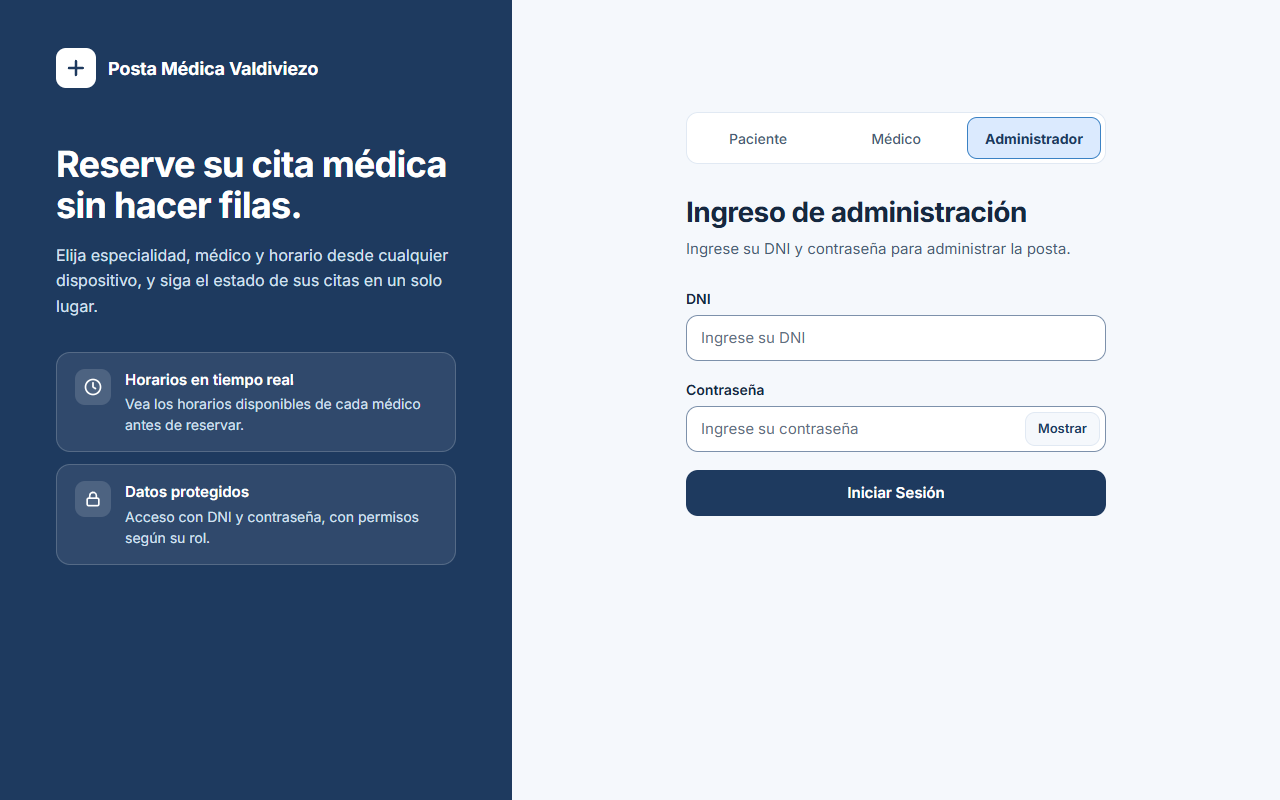
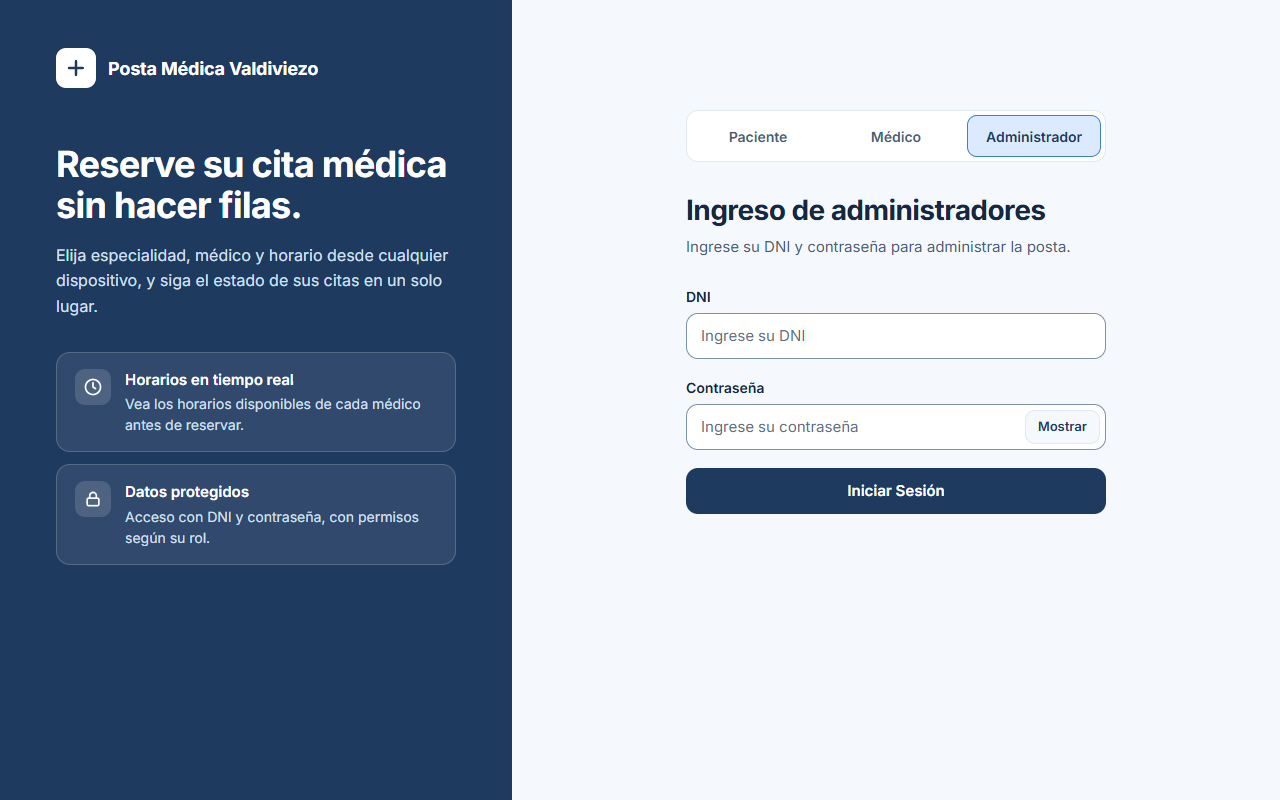
RFC-019: traza corregida (hora de la bitácora, PROTEGIDOS de E04, EC-08, evidencia) y capturas nuevas

diff --git a/docs/ELEMENTOS_CONFIGURACION.md b/docs/ELEMENTOS_CONFIGURACION.md
@@ -21,7 +21,7 @@ Inventario de los elementos de configuración (EC) del sistema "Posta Médica Va
 | EC-05 | Descriptor de construcción del backend | Archivo de construcción (Maven) | Proyecto 1.1.0 (desde la tarea 27; antes 0.0.1-SNAPSHOT); padre Spring Boot 3.5.6; `java.version` 17 | En línea base LB-0; en la tarea 27 solo cambia `<version>` (el jar pasa a `backend-1.1.0.jar`); dependencias sin cambios | 2026-10-20 | `backend/pom.xml` (y wrapper `mvnw`, `mvnw.cmd`, `.mvn/wrapper/`; hasta LB-3 en `backend/backend/`) | Sin registro / Sin registro | Construye EC-01. Declara dependencias: spring-boot-starter-web, spring-boot-starter-data-jpa, mysql-connector-j, jjwt 0.11.5, spring-boot-starter-test. Requiere EC-12 y EC-15. | Repositorio Git local |
 | EC-06 | Descriptor de dependencias del frontend | Archivo de construcción (npm) | 1.1.0 (desde la tarea 27; antes 0.0.0); `@angular/core` ^20.3.0, `@angular/cli` ^20.3.7, `typescript` ~5.9.2 | En línea base LB-0; en la tarea 27 solo cambia `version` en `package.json` y en la raíz de `package-lock.json` (líneas 3 y 9); dependencias sin cambios | 2026-10-20 | `frontend/package.json` y `package-lock.json` (hasta LB-3 en `proyecto_valdiviezo/`) | Sin registro / Sin registro | Define las dependencias y scripts (`npm start`) de EC-02. `package-lock.json` fija las versiones exactas. Requiere EC-13. | Repositorio Git local |
 | EC-07 | Configuración del espacio de trabajo Angular | Archivo de configuración | LB-0 | En línea base LB-0 | 2026-10-20 | `frontend/angular.json` (y `tsconfig.json`, `tsconfig.app.json`, `tsconfig.spec.json`, `tsconfig.caracterizacion.json` y, desde LB-5, `tsconfig.unitarias.json`; hasta LB-3 en `proyecto_valdiviezo/`). Sin cambios de contenido en LB-4: sus rutas son relativas a la carpeta. LB-5: se agregó `tsconfig.unitarias.json` (compila los `*.caracterizacion.spec.ts` y los `*.unitaria.spec.ts`); los demás sin cambios | Sin registro / Sin registro | Define cómo EC-16 compila y sirve EC-02. | Repositorio Git local |
-| EC-08 | Pruebas automatizadas de Playwright | Código de pruebas (TypeScript) | `@playwright/test` ^1.57.0 declarado en `e2e/package.json`; instalado 1.64.1 | Modificado en LB-3 (RFC-003: las 5 pruebas `medico-*.spec.ts` comprueban datos reales); movido en LB-4 sin cambios de contenido; ejecutadas en LB-3 y LB-4: 6/6 pasan. **En la rama de la RFC-019 (tarea 31, aún no en `develop`):** 10 archivos `.spec.ts` y 21 pruebas (se agregan `rediseno-acceso.spec.ts` con 5 pruebas y `rediseno-acceso-estable.spec.ts` con 5; 21/21 pasan). **En v1.1.0 (tarea 27):** 8 archivos `.spec.ts` y 11 pruebas (11/11 pasan): `registrar-cita-doble-reserva.spec.ts` (RFC-012, PR #56) y `sesion-token.spec.ts` (E02, RFC-011, PR #57) nuevos, más el ayudante `e2e/tests/token.ts`; 5 pruebas existentes solo agregan la cabecera `Authorization` (aprobado en la tarea 26; antes/después en `docs/PRUEBAS.md`) | 2026-10-20 | `e2e/tests/` (6 archivos `.spec.ts`) y `e2e/package.json` (hasta LB-3: `tests/` y `package.json` en la raíz). No hay `playwright.config.*`. `test-results/` lo genera cada corrida y está en `.gitignore` desde LB-4 | Sin registro / Sin registro | Prueban EC-02 en ejecución, que a su vez depende de EC-01. Cubren admin-reportes y el módulo médico. | Repositorio Git local |
+| EC-08 | Pruebas automatizadas de Playwright | Código de pruebas (TypeScript) | `@playwright/test` ^1.57.0 declarado en `e2e/package.json`; instalado 1.64.1 | Modificado en LB-3 (RFC-003: las 5 pruebas `medico-*.spec.ts` comprueban datos reales); movido en LB-4 sin cambios de contenido; ejecutadas en LB-3 y LB-4: 6/6 pasan. **En la rama de la RFC-019 (tarea 31, aún no en `develop`):** 10 archivos `.spec.ts` y 21 pruebas (se agregan `rediseno-acceso.spec.ts` con 5 pruebas y `rediseno-acceso-estable.spec.ts` con 5; 21/21 pasan). **En v1.1.0 (tarea 27):** 8 archivos `.spec.ts` y 11 pruebas (11/11 pasan): `registrar-cita-doble-reserva.spec.ts` (RFC-012, PR #56) y `sesion-token.spec.ts` (E02, RFC-011, PR #57) nuevos, más el ayudante `e2e/tests/token.ts`; 5 pruebas existentes solo agregan la cabecera `Authorization` (aprobado en la tarea 26; antes/después en `docs/PRUEBAS.md`) | 2026-10-20 | `e2e/tests/` (10 archivos `.spec.ts` en la rama de la RFC-019; eran 6 en LB-3 y 8 en v1.1.0) y `e2e/package.json` (hasta LB-3: `tests/` y `package.json` en la raíz). No hay `playwright.config.*`. `test-results/` lo genera cada corrida y está en `.gitignore` desde LB-4 | Sin registro / Sin registro | Prueban EC-02 en ejecución, que a su vez depende de EC-01. Cubren admin-reportes y el módulo médico. | Repositorio Git local |
 | EC-09 | README del proyecto | Documentación | LB-0 | En línea base LB-0 (modificado: nombre de BD) | 2026-10-20 | `README.md` | Sin registro / Sin registro | Describe EC-01, EC-02 y EC-03. | Repositorio Git local |
 | EC-10 | Guía de instalación | Documentación | LB-0 | En línea base LB-0 (modificado: nombre de BD) | 2026-10-20 | `SETUP.md` | Sin registro / Sin registro | Explica cómo preparar EC-03, EC-04 y las herramientas EC-12 a EC-16. | Repositorio Git local |
 | EC-11 | Documentación de mantenimiento | Documentación | LB-0 | Creado en LB-0 | 2026-10-20 | `docs/` (`BITACORA.md`, `HALLAZGOS.md`, `PRUEBAS.md`, `ELEMENTOS_CONFIGURACION.md`, `rfc/`, `evidencias/`, `refactorizaciones/`) | Grupo del curso / Sin registro | Registra el estado de todos los EC. `HALLAZGOS.md` referencia ubicaciones en EC-01, EC-02 y EC-04. | Repositorio Git local; insumo para quienes redactan el informe |

diff --git a/docs/rfc/RFC-019.md b/docs/rfc/RFC-019.md
@@ -68,7 +68,8 @@ Referencia de estructura (no de colores): carpeta de guía de diseño PASO (logi
   - `h2` con "Panel Médico"; `h3` con "Aceptar Cita", "Cancelar Cita" y "Resumen del Paciente"; `h2` con el nombre del paciente en el modal (`e2e/tests/medico-dashboard.spec.ts`, `medico-pacientes.spec.ts`).
   - Tipo de elemento: el menú del médico y "Informes" deben seguir siendo `a`; "Cerrar Sesión" debe ser `a` o `button` con ese texto exacto.
   - Los `button:has-text("Iniciar Sesión")` de las pruebas: ningún otro botón de las pantallas de acceso debe contener ese texto.
-- **De la prueba nueva `e2e/tests/rediseno-acceso.spec.ts` (Parte 1):** `nav[aria-label="Tipo de usuario"]` con los enlaces "Paciente", "Médico" y "Administrador" y `a[aria-current="page"]` en el activo; `a[href="/registro"]` solo en el login de paciente; `label` asociada en todo campo de los logins y del registro; `role="alert"` en `.error-message` y en `.aviso-sesion`; sin desborde horizontal a 360 y 1280 px; `button[type="submit"]` en los logins y en `/registro`.
+- **De la prueba nueva `e2e/tests/rediseno-acceso-estable.spec.ts` (E04):** `.auth-roles` (selector de rol), `.auth-brand` (panel de marca, ancho ≤ 640 px a 1920 px), que el primer `input` de cada login sea el DNI y que `button[type="submit"]` exista; la posición vertical de esos elementos debe ser la misma en los 3 logins.
+- **De la prueba nueva `e2e/tests/rediseno-acceso.spec.ts` (E03, Parte 1):** `nav[aria-label="Tipo de usuario"]` con los enlaces "Paciente", "Médico" y "Administrador" y `a[aria-current="page"]` en el activo; `a[href="/registro"]` solo en el login de paciente; `label` asociada en todo campo de los logins y del registro; `role="alert"` en `.error-message` y en `.aviso-sesion`; sin desborde horizontal a 360 y 1280 px; `button[type="submit"]` en los logins y en `/registro`.
 - **Formatos:** Mis Citas `yyyy-MM-dd - HH:mm`; Pacientes del médico `dd/MM/yyyy`, "Masculino"/"Femenino", `Departamento - Distrito`. Estructura de tablas y `th` que revisan las pruebas.
 - **No se toca:** backend, lógica de negocio ni pruebas existentes.
 
@@ -114,7 +115,7 @@ Referencia de estructura (no de colores): carpeta de guía de diseño PASO (logi
   - El enlace "Registrarse" solo aparece en el login de paciente.
   - Cada campo tiene `label` asociado, foco visible y contraste AA, y los errores tienen `role="alert"`.
   - Sin desborde horizontal a 360 px ni a 1280 px.
-- **Evidencia visual:** capturas antes y después en `docs/entrega/rediseno/` (360 y 1280 px).
+- **Evidencia visual:** capturas antes y después en `docs/entrega/rediseno/` (las "después" a 360, 768, 1280 y 1920 px y en cada estado; las "antes" solo a 360 y 1280 px).
 - **Revisión:** el agente `revisor-rediseno` decide APROBADO u OBSERVADO antes de unir cada parte a `develop`.
 
 ### Costo y tiempo estimado

diff --git a/docs/BITACORA.md b/docs/BITACORA.md
@@ -1620,7 +1620,7 @@ gh pr create --base develop --head master --title "Merge master (conteo de PR) e
 - **Equivalencia de nombres de la prueba nueva:** la cabecera de `e2e/tests/rediseno-acceso.spec.ts` la llama `E-RFC019-1` y el catálogo de `docs/PRUEBAS.md` la llama E03: son la misma. No se cambió la cabecera para no tocar una prueba (decide el usuario si se unifica).
   - **Regresión tras la vuelta 2** (HEAD `d6680c1`, 18:46:51–18:49:55): `ng build` exit 0, frontend 32/32 y 73/73, backend 97/97, Playwright 16/16, batería P01–P28 idéntica a la de LB-11 (diff vacío sin horas; P04 sigue fallando). Resumen en `docs/evidencias/t31-rfc019-parte1.txt`.
 
-### [2026-11-23 19:15–19:30] Tarea 31 (continuación): corrección visual de la Parte 1 y revisor con revisión visual
+### [2026-11-23 19:13–19:27] Tarea 31 (continuación): corrección visual de la Parte 1 y revisor con revisión visual
 - **Por qué:** la revisión por el usuario en el navegador encontró dos fallas que el revisor **aprobó** porque solo miró código y pruebas: (1) hueco enorme en el panel izquierdo; (2) el formulario saltaba unos 30 px al cambiar de rol. **Fallo propio:** yo solo había mirado las capturas de paciente, selección de rol y registro a 1280 px; no miré la del médico ni la del administrador, no comparé los estados entre sí y no probé un monitor ancho. Por eso el agente se mejora primero.
 - **Agente `.claude/agents/revisor-rediseno.md`:** se agregó "REVISIÓN VISUAL" al OBJETIVO (capturas con Playwright de cada pantalla y estado a 360, 768, 1280 y 1920 px, mirarlas, comparar estados entre sí con `getBoundingClientRect`, consistencia con la guía PASO; las observaciones visuales llevan la captura; un problema visual evidente es OBSERVADO; capturas al scratchpad).
 - **Causas y cambios:**
